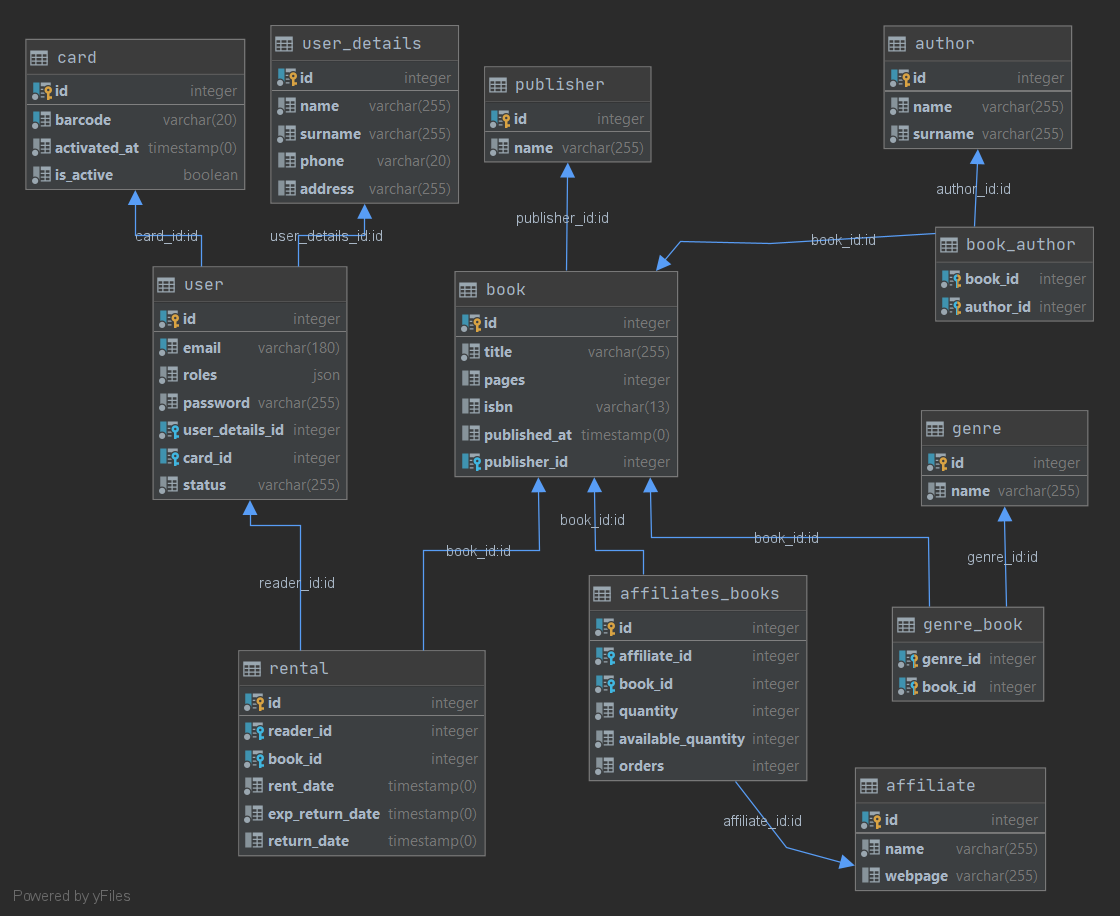
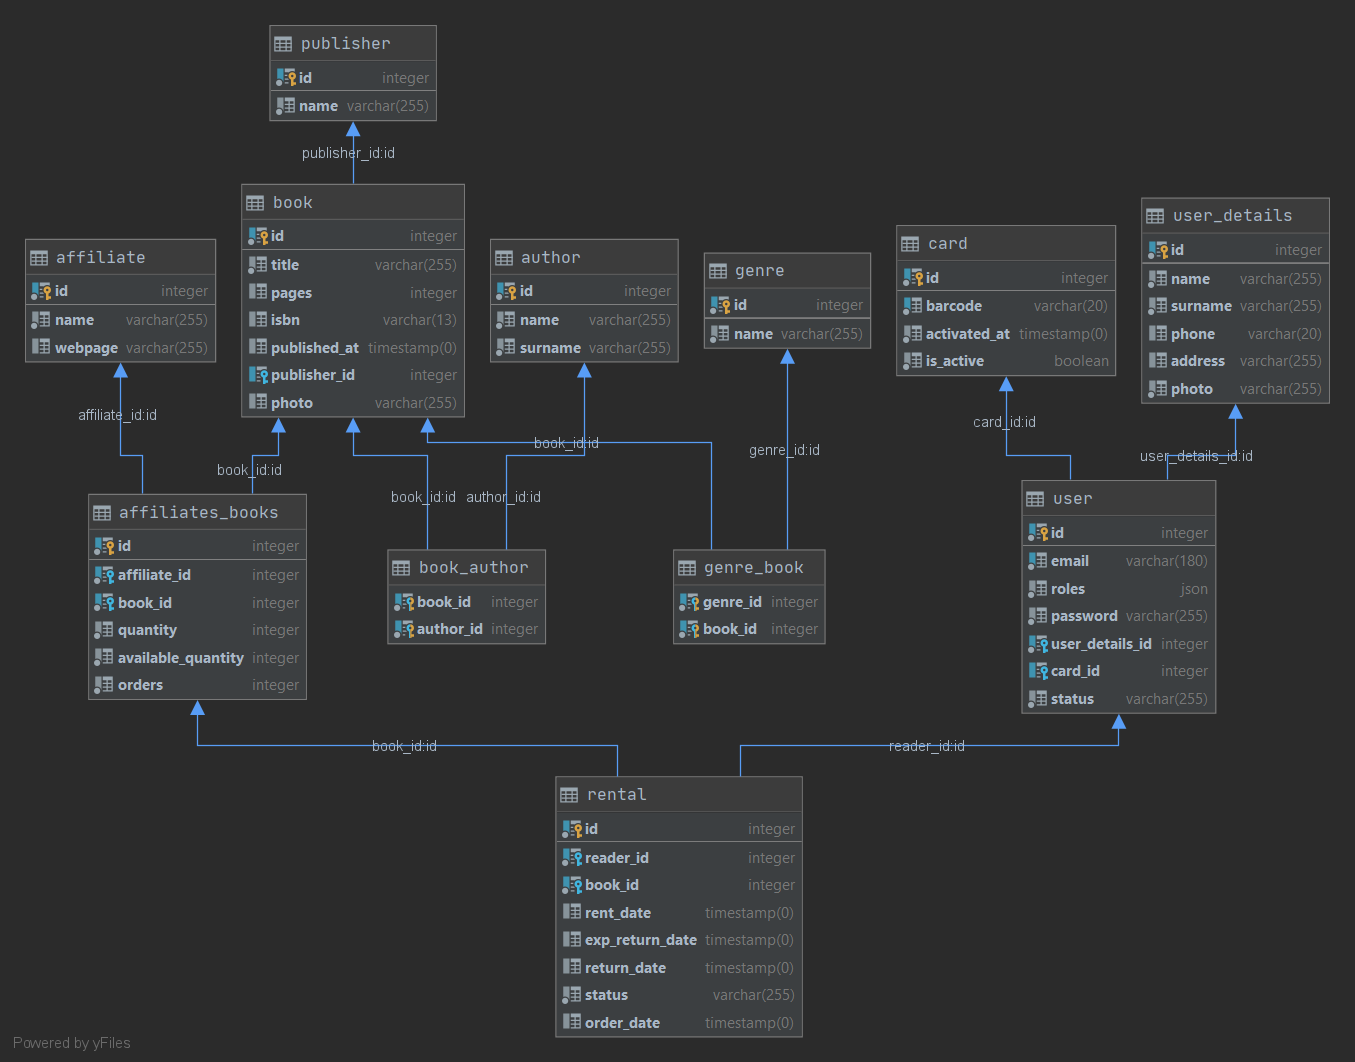
Update ERD diagram

diff --git a/src/Entity/Rental.php b/src/Entity/Rental.php
@@ -48,11 +48,7 @@ class Rental
      */
     private $returnDate;
 
-    /**
-     * @ORM\ManyToOne(targetEntity=AffiliatesBooks::class)
-     * @ORM\JoinColumn(nullable=false)
-     */
-    private $book;
+
 
     /**
      * @ORM\Column(type="string", length=255, options={"default":"ordered"})
@@ -63,6 +59,12 @@ class Rental
      * @ORM\Column(type="datetime", nullable=true)
      */
     private $order_date;
+
+    /**
+     * @ORM\ManyToOne(targetEntity=Book::class)
+     * @ORM\JoinColumn(nullable=false)
+     */
+    private $book;
 
     public function getId(): ?int
     {
@@ -117,18 +119,6 @@ class Rental
         return $this;
     }
 
-    public function getBook(): ?AffiliatesBooks
-    {
-        return $this->book;
-    }
-
-    public function setBook(?AffiliatesBooks $book): self
-    {
-        $this->book = $book;
-
-        return $this;
-    }
-
     public function getStatus(): ?string
     {
         return $this->status;
@@ -149,6 +139,18 @@ class Rental
     public function setOrderDate(?\DateTimeInterface $order_date): self
     {
         $this->order_date = $order_date;
+
+        return $this;
+    }
+
+    public function getBook(): ?Book
+    {
+        return $this->book;
+    }
+
+    public function setBook(?Book $book): self
+    {
+        $this->book = $book;
 
         return $this;
     }

diff --git a/migrations/Version20210607211121.php b/migrations/Version20210607211121.php
@@ -1,0 +1,34 @@
+<?php
+
+declare(strict_types=1);
+
+namespace DoctrineMigrations;
+
+use Doctrine\DBAL\Schema\Schema;
+use Doctrine\Migrations\AbstractMigration;
+
+/**
+ * Auto-generated Migration: Please modify to your needs!
+ */
+final class Version20210607211121 extends AbstractMigration
+{
+    public function getDescription() : string
+    {
+        return '';
+    }
+
+    public function up(Schema $schema) : void
+    {
+        // this up() migration is auto-generated, please modify it to your needs
+        $this->addSql('ALTER TABLE rental DROP CONSTRAINT FK_1619C27D16A2B381');
+        $this->addSql('ALTER TABLE rental ADD CONSTRAINT FK_1619C27D16A2B381 FOREIGN KEY (book_id) REFERENCES book (id) NOT DEFERRABLE INITIALLY IMMEDIATE');
+    }
+
+    public function down(Schema $schema) : void
+    {
+        // this down() migration is auto-generated, please modify it to your needs
+        $this->addSql('CREATE SCHEMA public');
+        $this->addSql('ALTER TABLE rental DROP CONSTRAINT fk_1619c27d16a2b381');
+        $this->addSql('ALTER TABLE rental ADD CONSTRAINT fk_1619c27d16a2b381 FOREIGN KEY (book_id) REFERENCES affiliates_books (id) NOT DEFERRABLE INITIALLY IMMEDIATE');
+    }
+}

diff --git a/src/Service/RentalService/RentalService.php b/src/Service/RentalService/RentalService.php
@@ -1,0 +1,12 @@
+<?php
+
+
+namespace App\Service\RentalService;
+
+
+use App\Service\RentalService\RentalServiceInterface;
+
+class RentalService
+{
+
+}

diff --git a/src/Service/RentalService/RentalServiceInterface.php b/src/Service/RentalService/RentalServiceInterface.php
@@ -1,0 +1,9 @@
+<?php
+
+
+namespace App\Service\RentalService;
+
+interface RentalServiceInterface
+{
+    public function create($userId, $bookId);
+}
